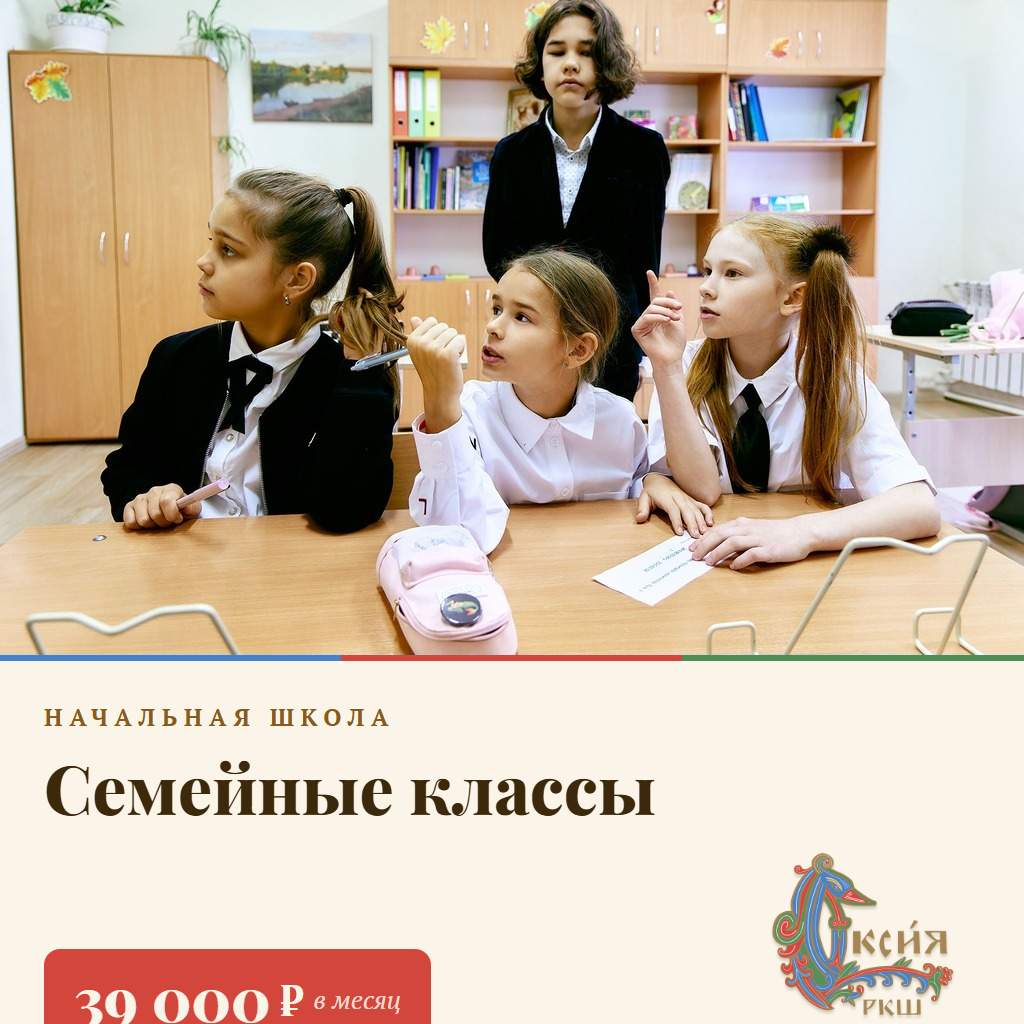
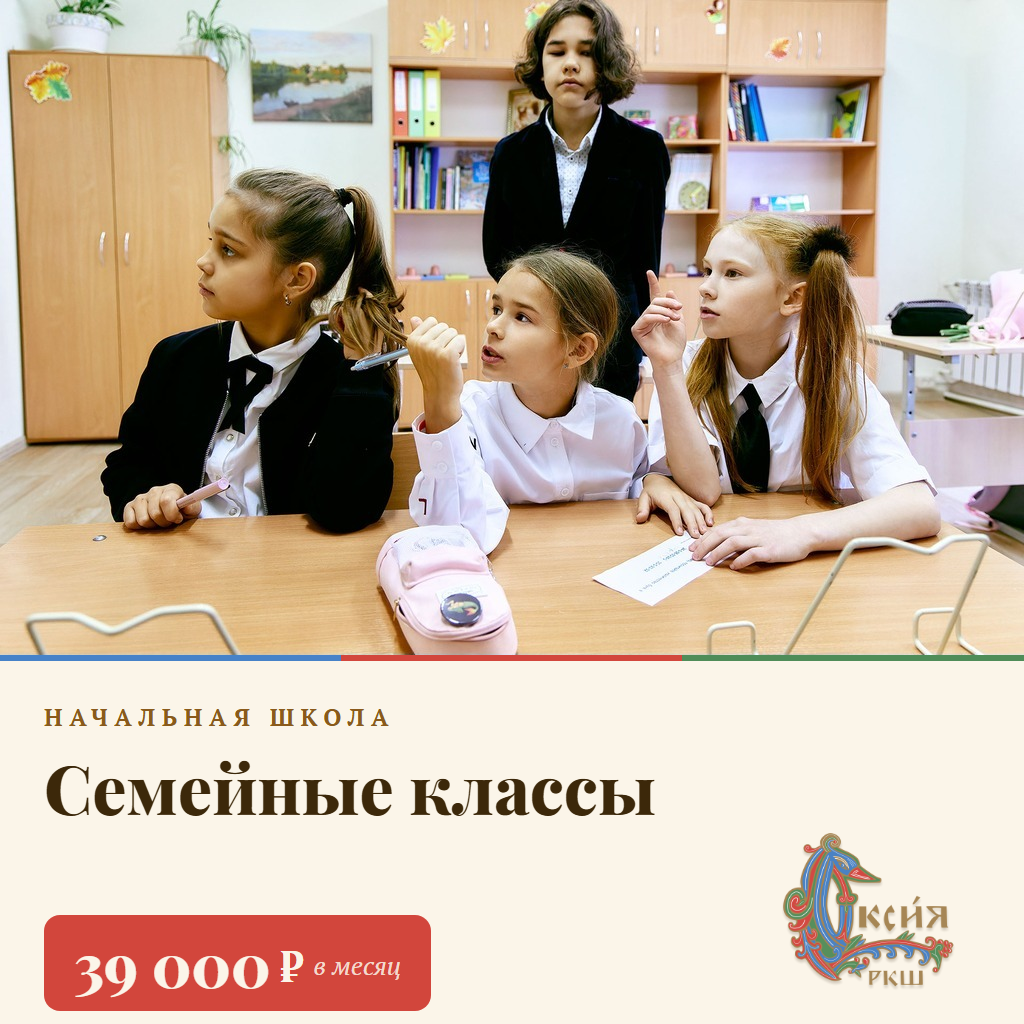
ОКСИЯ: фикс — прошлая правка логотипа (margin-bottom) раздувала высоту ряда и обрезала карточку по краю холста; заменила на relative-сдвиг, который не влияет на общую высоту

Changed region(s): [[0.0312, 0.875, 0.4375, 1.0], [0.75, 0.8125, 0.9375, 1.0]]

diff --git a/story-preview/_build/card-template.html b/story-preview/_build/card-template.html
@@ -43,7 +43,7 @@
   .price .per{font-family:"PT Serif",serif;font-weight:400;font-style:italic;font-size:26px;
     line-height:1;color:rgba(251,245,233,.86);position:relative;top:2px;}
 
-  .logo{height:168px;width:auto;margin-bottom:24px;}
+  .logo{height:158px;width:auto;position:relative;bottom:20px;}
 </style>
 </head>
 <body>
